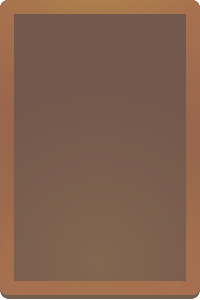
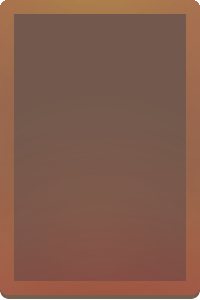
Reworked looknfeel

Changed region(s): [[0.24, 0.93, 0.87, 0.99]]

diff --git a/core/src/de/bitbrain/craft/Styles.java b/core/src/de/bitbrain/craft/Styles.java
@@ -41,6 +41,7 @@ public final class Styles {
 	public static final TextButtonStyle BTN_PROFESSION     = new TextButtonStyle();
 	public static final LabelStyle LBL_BROWN 		  = new LabelStyle();
 	public static final LabelStyle LBL_ITEM 		  = new LabelStyle();
+	public static final LabelStyle LBL_TEXT 		  = new LabelStyle();
 	public static final ImageButtonStyle BTN_TAB				  = new ImageButtonStyle();
 	public static final ImageButtonStyle BTN_TAB_ACTIVE 		  = new ImageButtonStyle();
 	static void load() {
@@ -54,7 +55,7 @@ public final class Styles {
 		BTN_PROFESSION.down = new SpriteDrawable(new Sprite(SharedAssetManager.get(Assets.TEX_PANEL_DOWN_V, Texture.class)));
 		BTN_PROFESSION.over = new SpriteDrawable(new Sprite(SharedAssetManager.get(Assets.TEX_PANEL_HOVER_V, Texture.class)));
 		BTN_PROFESSION.up = new SpriteDrawable(new Sprite(SharedAssetManager.get(Assets.TEX_PANEL_V, Texture.class)));
-		BTN_PROFESSION.fontColor = Assets.CLR_YELLOW_SAND_A;
+		BTN_PROFESSION.fontColor = Assets.CLR_INACTIVE;
 		BTN_PROFESSION.downFontColor = Assets.CLR_YELLOW_SAND;
 		BTN_PROFESSION.overFontColor = Assets.CLR_YELLOW_SAND;
 		
@@ -62,7 +63,10 @@ public final class Styles {
 		LBL_BROWN.font =  SharedAssetManager.get(Assets.FNT_SMALL, BitmapFont.class);
 		
 		LBL_ITEM.fontColor = new Color(Color.WHITE);
-		LBL_ITEM.font =  SharedAssetManager.get(Assets.FNT_MEDIUM, BitmapFont.class);
+		LBL_ITEM.font =  SharedAssetManager.get(Assets.FNT_LARGER, BitmapFont.class);
+		
+		LBL_TEXT.fontColor = new Color(Color.WHITE);
+		LBL_TEXT.font =  SharedAssetManager.get(Assets.FNT_MEDIUM, BitmapFont.class);
 		
 		BTN_TAB.up = new SpriteDrawable(new Sprite(SharedAssetManager.get(Assets.TEX_PANEL_TAB, Texture.class)));
 		BTN_TAB_ACTIVE.up = new SpriteDrawable(new Sprite(SharedAssetManager.get(Assets.TEX_PANEL_TAB_ACTIVE, Texture.class)));

diff --git a/core/src/de/bitbrain/craft/util/ColorCalculator.java b/core/src/de/bitbrain/craft/util/ColorCalculator.java
@@ -1,0 +1,43 @@
+/*
+ * Craft - Crafting game for Android, PC and Browser.
+ * Copyright (C) 2014 Miguel Gonzalez
+ *
+ * This program is free software; you can redistribute it and/or modify
+ * it under the terms of the GNU General Public License as published by
+ * the Free Software Foundation; either version 2 of the License, or
+ * (at your option) any later version.
+ *
+ * This program is distributed in the hope that it will be useful,
+ * but WITHOUT ANY WARRANTY; without even the implied warranty of
+ * MERCHANTABILITY or FITNESS FOR A PARTICULAR PURPOSE.  See the
+ * GNU General Public License for more details.
+ *
+ * You should have received a copy of the GNU General Public License along
+ * with this program; if not, write to the Free Software Foundation, Inc.,
+ * 51 Franklin Street, Fifth Floor, Boston, MA 02110-1301 USA.
+ */
+
+package de.bitbrain.craft.util;
+
+import com.badlogic.gdx.graphics.Color;
+import com.badlogic.gdx.graphics.Texture;
+
+/**
+ * provides color calculation for images
+ *
+ * @author Miguel Gonzalez <miguel-gonzalez@gmx.de>
+ * @since 1.0
+ * @version 1.0
+ */
+public class ColorCalculator {
+	
+	private Texture texture;
+	
+	public ColorCalculator(Texture texture) {
+		this.texture = texture;
+	}
+	
+	public Color getColor() {
+		return null;
+	}
+}

diff --git a/core/src/de/bitbrain/craft/ui/TabPanel.java b/core/src/de/bitbrain/craft/ui/TabPanel.java
@@ -257,9 +257,10 @@ public class TabPanel extends Table {
 			
 			for (Cell<?> c : cells.values()) {
 				c.width((parentPanel.getWidth()) / cells.size());
-				c.padRight(2f);
-				c.padLeft(2f);
-				c.height(parentPanel.getHeight() - (parentPanel.getHeight() / HEIGHT_DIV));
+				c.padBottom(5f);
+				c.padRight(5f);
+				c.padLeft(5f);
+				c.height(parentPanel.getHeight() - (parentPanel.getHeight() / HEIGHT_DIV) - 15f);
 			}
 		}
 		
@@ -291,10 +292,10 @@ public class TabPanel extends Table {
 			style.imageUp = icon;		
 			style.imageOver = icon;
 			
-			style.imageUp.setMinHeight(Gdx.graphics.getHeight() / 12f);
-			style.imageUp.setMinWidth(Gdx.graphics.getHeight() / 12f);
-			style.imageOver.setMinHeight(Gdx.graphics.getHeight() / 12f);
-			style.imageOver.setMinWidth(Gdx.graphics.getHeight() / 12f);
+			style.imageUp.setMinHeight(Gdx.graphics.getHeight() / 10f);
+			style.imageUp.setMinWidth(Gdx.graphics.getHeight() / 10f);
+			style.imageOver.setMinHeight(Gdx.graphics.getHeight() / 10f);
+			style.imageOver.setMinWidth(Gdx.graphics.getHeight() / 10f);
 			return style;
 		}
 	}

diff --git a/core/src/de/bitbrain/craft/Assets.java b/core/src/de/bitbrain/craft/Assets.java
@@ -98,7 +98,8 @@ public final class Assets {
 	
 	public static final Color CLR_GREEN_GRASS 			= Color.valueOf("b8d41c");
 	public static final Color CLR_GREEN_GRASS_LIGHT 	= Color.valueOf("c7e03d");
-	public static final Color CLR_BROWN_TEAK 			= Color.valueOf("6a2b05");
+	public static final Color CLR_BROWN_TEAK 			= Color.valueOf("6a1f2d");
+	public static final Color CLR_INACTIVE   			= Color.valueOf("d5601a");
 	public static final Color CLR_YELLOW_SAND 			= Color.valueOf("dcc77d");
 	public static final Color CLR_YELLOW_SAND_A 		= Color.valueOf("dcc77d99");
 	public static final Color CLR_BLUE_SKY				= Color.valueOf("84f2ff");

diff --git a/core/src/de/bitbrain/craft/ui/ElementInfoPanel.java b/core/src/de/bitbrain/craft/ui/ElementInfoPanel.java
@@ -58,9 +58,8 @@ public class ElementInfoPanel extends HorizontalGroup {
 	public ElementInfoPanel(ElementData data) {		
 		SharedInjector.get().injectMembers(this);
 		this.data = data;
-		Label name = new Label(" " + data.getName(), Styles.LBL_ITEM);
+		Label name = new Label("  " + data.getName(), Styles.LBL_ITEM);
 		name.setColor(data.getRarity().getColor());
-		name.setX(30f);
 		RarityIcon icon = new RarityIcon(data);		
 		icon.setWidth(name.getHeight() * 4);
 		icon.setHeight(name.getHeight() * 4);

diff --git a/core/src/de/bitbrain/craft/ui/ProfessionView.java b/core/src/de/bitbrain/craft/ui/ProfessionView.java
@@ -21,13 +21,10 @@ package de.bitbrain.craft.ui;
 
 import net.engio.mbassy.listener.Handler;
 
-import com.badlogic.gdx.graphics.Texture;
 import com.badlogic.gdx.graphics.g2d.Batch;
 import com.badlogic.gdx.scenes.scene2d.Actor;
 import com.google.inject.Inject;
 
-import de.bitbrain.craft.Assets;
-import de.bitbrain.craft.SharedAssetManager;
 import de.bitbrain.craft.core.API;
 import de.bitbrain.craft.core.professions.ProfessionLogic;
 import de.bitbrain.craft.events.Event.EventType;

diff --git a/core/src/de/bitbrain/craft/ui/RarityIcon.java b/core/src/de/bitbrain/craft/ui/RarityIcon.java
@@ -52,7 +52,7 @@ public class RarityIcon extends Actor {
 	
 	public RarityIcon(ElementData data) {
 		setSource(data);
-		amount = new Label("1", Styles.LBL_ITEM);
+		amount = new Label("1", Styles.LBL_TEXT);
 		background = new Sprite(SharedAssetManager.get(Assets.TEX_ICON_BACKGROUND, Texture.class));
 	}
 	
